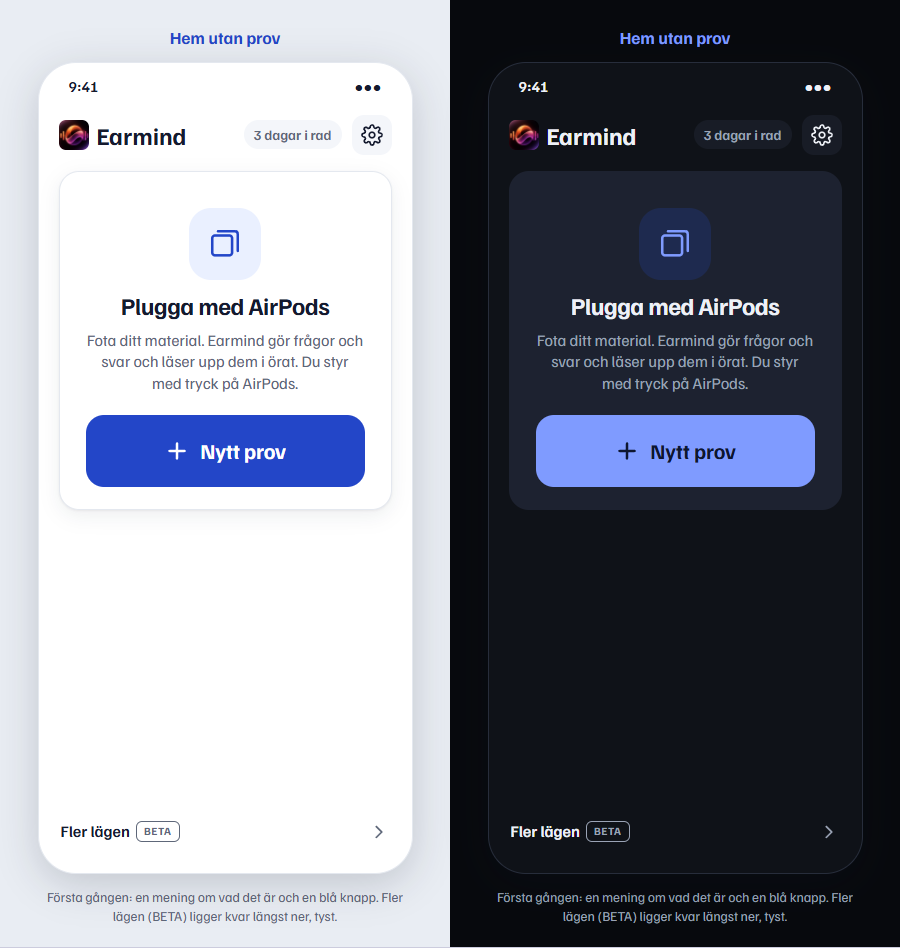
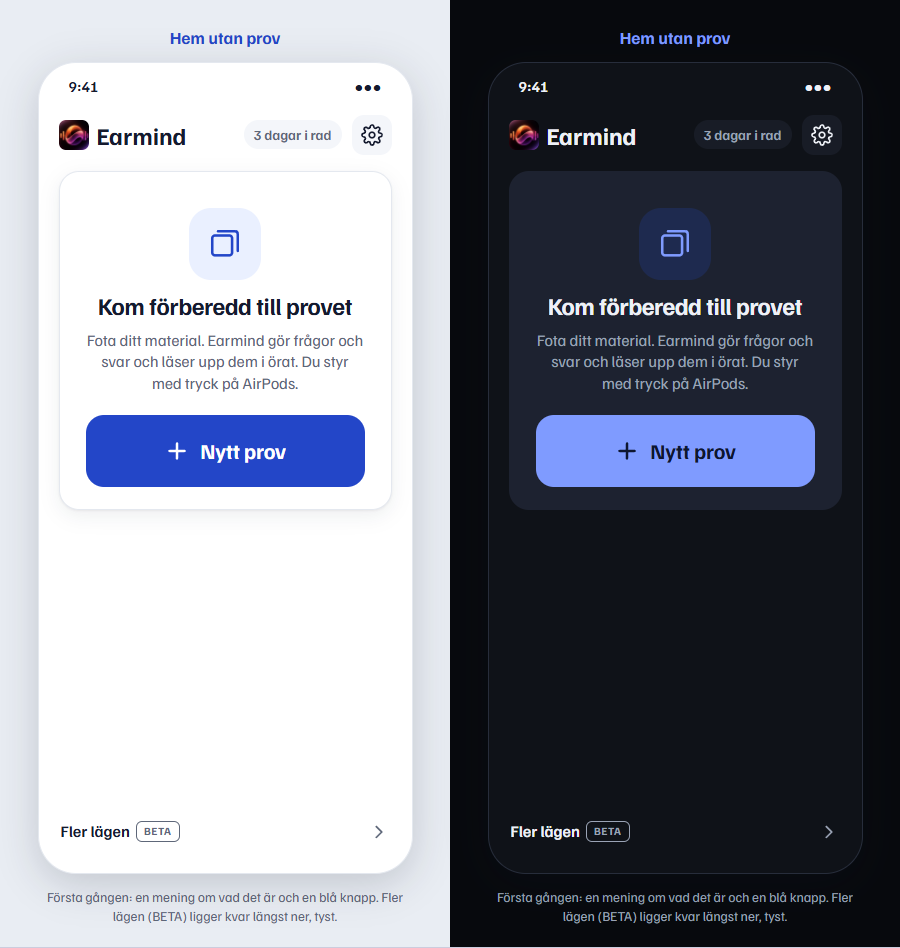
Kelly: repetitionsflödet som ny användare (N1–N9), A85/A86 i koden, texter efter A85/A86 [skip eval]

Changed region(s): [[0.5911, 0.3059, 0.9022, 0.3365], [0.0933, 0.3059, 0.4044, 0.3365]]

diff --git a/docs/design/_src/repetition.html b/docs/design/_src/repetition.html
@@ -334,7 +334,7 @@ S('hem-tom', 'Hem utan prov',
   ${topBar()}
   <div class="card"><div class="empty">
     <div class="bigic">${I('cards')}</div>
-    <h2 style="font-size:24px">Plugga med AirPods</h2>
+    <h2 style="font-size:24px">Kom förberedd till provet</h2>
     <div class="sub" style="font-size:16px;max-width:280px">Fota ditt material. ${APP} gör frågor och svar och läser upp dem i örat. Du styr med tryck på AirPods.</div>
     <div class="btn blue big" style="width:100%;margin-top:10px">${I('plus')}Nytt prov</div>
   </div></div>
@@ -789,7 +789,7 @@ S('pub-hem', 'Hem: vägen till skolans prov',
   ${topBar()}
   <div class="card"><div class="empty">
     <div class="bigic">${I('cards')}</div>
-    <h2 style="font-size:24px">Plugga med AirPods</h2>
+    <h2 style="font-size:24px">Kom förberedd till provet</h2>
     <div class="sub" style="font-size:16px;max-width:280px">Fota ditt material. ${APP} gör frågor och svar och läser upp dem i örat.</div>
     <div class="btn blue big" style="width:100%;margin-top:10px">${I('plus')}Nytt prov</div>
     <div class="tlink" style="margin-top:6px">Hitta prov från din skola</div>

diff --git a/docs/STATUS.md b/docs/STATUS.md
@@ -37,7 +37,7 @@ Last updated: 2026-11-08 by Angela (builder).
 - **Provläge (Angela, D36/D38) and Målbeskrivning + Egna kommandon (Angela, D37/D39):** hands-free tutor session (VAD end-of-turn 0.8 s, barge-in, recogniser gated while we speak, auto-end after 10 min releases the microphone, `mode: tutor` with the whole session's `recent_qa`, retried as `push_to_talk` while the backend rejects `tutor`); course goals compact ≤ 1 500 chars as `goals`; keyword commands matched STT-tolerantly and sent as `commands`, spoken "spara kommando …" stored and confirmed. Green in CI (run 41817986402, 249 app tests); **untested on device**; the backend (answer v8) still rejects `mode: tutor` (400, the app falls back to `push_to_talk`) and ignores the new `goals`/`commands` fields until Kevin's D36/D37 tasks land, so the tutor style and command effects are not yet observable. Also the D35 setting *Svarslängd* (Kort / Anpassad / Utförlig → backend `length`, Settings → Answers), green in run 41819618434 (250 app tests). Reports: `reports/2026-11-04-1214-angela-plugglage.md`, `reports/2026-11-04-1214-angela-goals-commands.md`; checklist §3r–3s.
 - **Easy switch to music (Angela, D33):** Pause/Resume on the listening screen, Lock Screen (Live Activity) and a Control; pause releases the audio session, interruptions never auto-resume (also with `shouldResume`), nothing is spoken while paused. New extension `LumenControls`. Green in CI (run 41806325518); **untested on device**, and the Control's process and Lock Screen resume are untested assumptions. Report: `reports/2026-11-04-1130-angela-d33-music-switch.md`.
 - **Queue D44–D58 (Angela, 2026-11-06):** Historik and Minne on the phone (D49/D56), Scribe as default recogniser with Apple as fallback (D44), Mikrofon per mode + comparison in Diagnostics (D55), mode picker with Intervjuläge and Rizzläge on the StudyMachine (D42/D43), report + Feedback & förslag + opt-in sharing (D57), Siri phrases, Start control and spoken pause (D58), checklist §3t–3z. Also fixed: `goals`/`commands` were sent where the backend does not read them. Green in CI (run 42259754856, 315 app tests). **Nothing has run on a device.** `/feedback` and `/shared-history` are not deployed yet. **Open for Aron:** the discreet indicator was not built (see report, Concerns). Report: `reports/2026-11-06-1830-angela-queue-d49-d58.md`.
-- **Offentlig demosida (Kelly, D62/D66/D86):** Kelly: **A82 granskad på bild (21:29, CI 43497812619): godkänd med två medelfynd**: B1 "fråga 7 av 5" i Fortsätt där du var?, B2 "Här startar du Earmind" och "Starta Earmind" tar fortfarande plats på Hem (D142: en rad Fler lägen); R1–R12 stängda utom R10 (låg); reports/2026-11-13-2129-kelly-granskning-a82.md. **Ke52 klar (21:17):** design och texter för Publicera prov och Prov från din skola (D149/D150) till A83: `docs/design/publicera-prov.md` + 11 skisser `bilder/repetition/pub-*.png`; användarnamn av från början, skolan sparas bara på telefonen; **till Angela: "övningsprov" finns kvar i A16:s röstförhör (3 ställen, förslag i §3)**; `reports/2026-11-13-2117-kelly-ke52-publicera-prov.md`. **Ke51 klar (20:34):** utkast till demosidan för repetitionsläget i `drafts/site-repetition/` (utanför site/, noindex, **inte publicerat**): "Plugga med AirPods utan att röra mobilen", demo med 1/2/3 tryck utan server, tre steg, lyssnande lägen märkta Beta; publiceras efter T18 + Arons ja; `reports/2026-11-13-2034-kelly-ke51-demosida-utkast.md`. **A78–A81 granskade i koden (20:25), inte på bild (CI 43490256034 failure):** 12 fynd till Angela, **R1 Avsluta är röd och R2 frågan i handstil (höga)**, R4 svarsknappar på uppspelningen, R6 Starta prov väntar på allt ljud, R7 två tryck från Hem, R9 pausraden, R12 Word-felet; `reports/2026-11-13-2025-kelly-granskning-a78-a81-kod.md`. Granskning på bild när CI är grön. **Ke50 klar (2026-11-13 20:19):** alla texter i repetitionsläget i `docs/design/repetition-texter.md` (kopieras rakt in, kolumnen "I koden nu" visar skillnaderna mot b669d02); **till Angela:** paus-raden motsäger D143/D147, Word-felet ska bort (K45 doc_text), nya texter för inga AirPods, inget nät, dagens ljudgräns och delning; `reports/2026-11-13-2019-kelly-ke50-repetitionstexter.md`. Granskar A78–A81 när bilderna finns. **Ke49 klar (2026-11-13 19:57):** design för repetitionsläget (D142–D146) till A79–A81: `docs/design/repetition.md` + 18 skisser ljust/mörkt i `docs/design/bilder/repetition/` (Hem med Starta prov, Nytt prov, sammanfattning, frågelista och redigering med kort svar = markerad första mening, kontrollskärmen med ●/●●/●●●, uppspelning, paus, låsskärm, Fortsätt där du var?, Dela, Fler lägen BETA); **till Deangelo: med D145 blir det 2 × N ljudfiler, inte 3 × N (spec R5b)**; sidan ändras först när A80 provats på telefon (T18), texten är klar; `reports/2026-11-13-1957-kelly-ke49-repetitionslaget.md`. Väntar på kö. Kvar att granska när bilder finns: testlägets skärmar (A76) och hemskärmsikonen efter A71 steg 2. **Ke48 klar (22:22):** A76 testläget: T1–T4 rättade (i koden; bladet nämner andras röster); A77 Vad kan Earmind? från capabilities.json godkänd (CI 43098721442); `reports/2026-11-11-2222-kelly-ke48-a76-rattat-a77.md`. **Ke47 klar (21:48):** sajtens Vad kan Earmind? följer Shared/capabilities.json (K44): Översätta och Söka på webben tillagda, "Kommer snart" kvar på det som inte är provat på telefon; Lighthouse 99/100/100/100; `reports/2026-11-11-2148-kelly-ke47-vad-kan-capabilities.md`. **Ke46 klar (21:16):** A76 testläget godkänd med rättelser (i koden): **T2 bekräftelseblad saknas** (andras röster skickas; hög), T4 ljudtexten motsäger sig själv i Om appen, T1 egen färg i brickan, T3 bricka på Start; `reports/2026-11-11-2116-kelly-ke46-granskning-a76.md`. **Ke45 klar (20:44):** design för testläget (D140, A76): orange bricka "Testläge · ljud skickas", bricka på Start, bekräftelseblad som nämner andras röster, ny ljudtext när testläget är på; `docs/design/testlage.md`, `reports/2026-11-11-2044-kelly-ke45-testlage.md`. **Ke44 klar (20:10):** sajtens tre stegbilder från appen i dag (bort med "Ljud sparas inte." och "förhör Lumen"); Lighthouse 99/100/100/100, 1 528 kB; `reports/2026-11-11-2010-kelly-ke44-stegbilder.md`. **Ke43 klar (20:08):** A71 **godkänd**: AppIcon identisk med exakt/AppIcon-1024.png, röstningen med de sex exakta ikonerna i 2 × 3, märket i rubriken; `reports/2026-11-11-2008-kelly-ke43-granskning-a71.md`. **Ke42 klar (19:05):** sajten visar appens ikon (D glasklotet, exakt) i sidhuvudet, favicon och apple-touch-icon; Lighthouse 99/100/100/100, 1 536 kB; `reports/2026-11-11-1905-kelly-ke42-sajtens-ikon.md`. **Ke22 klar (19:04):** bildplan för de 7 koncepten med Ryans rättelser, slutbild Earmind (D121, exakt ikon), Start-inklipp ur CI och 7 omslag (scenbilderna kommer från Gemini) i `docs/marketing/annonser/ke22/`; cookiebanner och pixlar (Ryans B1) saknar punkt; `reports/2026-11-11-1904-kelly-ke22-bildplan.md`. **Ke41 klar (19:00):** A73 **godkänd** (D138-texten överallt, G3 stängd); L1: licensraden säger att ElevenLabs inte sparar ljudet (motsäger D135); `reports/2026-11-11-1900-kelly-ke41-granskning-a73.md`. **Ke40 klar (18:59):** exakta ChatGPT-ikoner (D139) i `docs/design/logo/rostning/exakt/`: A–F + AppIcon-1024 (D), bara beskurna 2,6–3,1 % för iOS-maskens hörn och uppskalade; **till Angela (A71): filerna är pushade**; `reports/2026-11-11-1859-kelly-ke40-exakta-ikoner.md`. **Väntar på kö (17:35).** Öppet: G3 "Ljud sparas inte" (Ke36) och K1 (Ke38) saknar punkt hos Angela. **Ke39 klar (16:31):** A64 största text **godkänd** på Tobys T13-tur (alla sex reglerna i SYSTEM.md avsnitt 10 håller); två låga rester (lägesikonen skalar inte, Lyssnars underrubrik kapas); `reports/2026-11-11-1631-kelly-ke39-granskning-a64.md`. **Ke38 klar (14:57):** Tobys T8c visar att Ke35 fungerar (Start med "Här startar du Earmind", Provläge 4 tryck i stället för 8, ett blad per öppning efter A66); K1 "Dela historik" ska vara grå sekundär knapp; `reports/2026-11-11-1457-kelly-ke38-granskning-t8c.md`. **Ke37 klar (13:21):** regel för största text i SYSTEM.md avsnitt 10 (aldrig ord brutna mitt i, rader med två delar staplas, rubriker kapas inte), täcker Tobys T11 fynd 1–4 och två till; `reports/2026-11-11-1321-kelly-ke37-storsta-text.md`. **Ke36 klar (12:45):** A55–A61 **godkända** (Earmind, Ke35 Start-rutan, V1/M1/G2 stängda); **öppet G3: "Ljud sparas inte" är osant** (Sov sparar klipp i 30 dagar) i intro, Första frågan och Om appen; ordagranna texter till Deangelo/Angela; `reports/2026-11-11-1245-kelly-ke36-granskning-a55-a61.md`. **Ke35 klar (12:01):** designbeslut på Tobys A50-fynd: första passet slutar på Start med en ruta en gång, varje Starta börjar med tom Lyssnar, Provläge frågar högst en sak (2 tryck i stället för 8); `docs/design/forsta-passet.md`, `reports/2026-11-11-1201-kelly-ke35-forsta-passet.md`. **Ke34 klar (11:28):** A52 **godkänd**, A54 **godkänd med V1** ("Rösta" ser aktiv ut fast den är avstängd: `LumenButtonStyle` saknar avstängt utseende), A53 **godkänd med M1** (textknapp i bläck); kvar G2 grå ikoner i lägesbladet och G3 "Ljud sparas inte" (osant med Sov och inspelning); CI 42999887377; `reports/2026-11-11-1128-kelly-ke34-granskning-a52-a54.md`. **Ke33 klar (10:39):** A50 **godkänd** på CI-bilderna 42993726421 (ljust/mörkt); S2 och Välj läge redan rättade i 537ea48; kvar G1 länk till A52 (med A52), G2 grå ikoner i lägesbladet (låg), G3 "Ljud sparas inte" före A53; `reports/2026-11-11-1039-kelly-ke33-granskning-a50.md`. **Ke32 klar (10:30):** sajten heter Earmind (titel, sidhuvud, metadata, FAQ, demorutan), väckningsordet ”Lumen” kvar i citaten; ny delningsbild `og-earmind.png`; Lighthouse 99/100/100/100, 1 504 kB; `reports/2026-11-11-1030-kelly-ke32-earmind-sajten.md`. **Ke30 klar (10:28):** Mina svar ritat för A53 (`docs/design/mina-svar.md`, 8 skisser ljust/mörkt: lista per prov, Lumens förslag → ditt svar, inspelning med Klar, versioner, brytaren, brickan "Ditt svar" i Provläget); till Aron: inspelning högst 10 min och samtycket måste nämna Scribe före A53; `reports/2026-11-11-1028-kelly-ke30-mina-svar.md`. **Ke29 klar (10:28):** underlag `docs/design/start-vadkan.md` (7 skisser ljust/mörkt): A50 granskad i koden (S1 länk "Allt Lumen kan ›", S2 inget Spotify-exempel före Spotify), A52 "Vad kan Lumen?" ritad (13 rader med verklig status) och bladet efter första svaret; sajten har sektionen Vad kan Lumen? med Siri-raden ("Kommer snart" på det som inte är provat), demorutan Standardläge/Förhör mig; Lighthouse 99/100/100/100, 1 504 kB; `reports/2026-11-11-1028-kelly-ke29-start-vadkan.md`. **Ke31 klar (10:18):** röstningens tre loggor (D127) som rena vektorer, mörk och ljus, samma storlek och ljus (bakgrund 0,010–0,016, toppljus 0,67–0,72), läsbara i 60 och 29 pt; till Angela (A54): `docs/design/logo/rostning/vektor/README.md`; `reports/2026-11-11-1018-kelly-ke31-rostning-vektor.md`. Nästa: Ke29. **Ke24 klar (21:23):** Aron valde logga nummer 4 (bock med ljudvågor); ritad som vektor i `docs/design/logo/` (AppIcon 1024 ljus/mörk/tonad, symbol, favicon), läsbar i 29 pt; demosidans sidhuvud och favicons bytta (Lighthouse 100×4, 1 515 kB); **till Angela: AppIcon (appen har ingen) och `LumenLogo` enligt SYSTEM.md avsnitt 5**; `reports/2026-11-10-2123-kelly-ke24-logga.md`. Väntar på kö, överlämning `docs/HANDOVER-KELLY.md`. **Ke28 klar (20:30):** appens CI-bilder (42876421405) godkända mot SYSTEM.md, 6 fynd; viktigast **Elias hörlur är vit och Apple-lik** (byts före App Store); `reports/2026-11-10-2030-kelly-ke28-granskning.md`. **Ke27 klar (20:28):** sömnläget ritat för A49 (`docs/design/sovlage.md`: Sov i Byt läge, eget samtycke första gången, svart natt med Godmorgon, morgonrapport med en mening, tre siffror, tidslinje och klipp); **"Ljud sparas inte" i intro/samtycke blir osant med A49**, förslag i filen. **Ke26 klar (20:24):** D121 i heron ("AI:n i dina AirPods. För vardagen, skolan och jobbet." + "Starta Lumen en gång, sen finns den i örat. Säg ”Lumen” så svarar den."; "hela dagen" utelämnat tills batteriet är mätt), Lighthouse 100×4, 1 507 kB; `reports/2026-11-10-2024-kelly-ke26-d121-sidan.md`. **Ke25 klar (20:12):** utkast till App Store-sidan i `docs/marketing/appstore/` (6 bilder i 6,9" och 6,1" ur CI 42876421405, texter, åldersgräns 13+ där Rizz är osäker, integritetsetiketter efter A41); **integritetspolicy saknas** och krävs; slutbild till Ryans annonser i `docs/marketing/annonser/slutbild/`; `reports/2026-11-10-2012-kelly-ke25-appstore.md`. **Ke23 klar (20:20):** sju namn kollade i App Store, EUIPO/TMview och DNS; **Earwise rött** (appen "EarWise: Ear Training", hörselkliniken earwise.se, ljudappen earwise.app), Earpiece AI rött, "Pod"/"Whisper" Apple-/OpenAI-risk; **rekommenderar Earmind** (Proviska reserv) och ChatGPT-symbol 4; PRV ej kontrollerat; `docs/design/namn.md`, `reports/2026-11-10-1932-kelly-ke23-namn-logga.md`. **Ke24 väntar på Arons nummer.** **A30 granskad: godkänd** (Ke20:s fyra fynd rättade i simulatorbilder; 6 mindre nya fynd till Angela, bl.a. "Startar …" på Har du prov snart?, demodata som blandar ämnen i övningsprovet). **Ke18 klar:** sidans tre steg visar appen i det nya systemet (Första frågan, Har du prov snart?, Provläget med "Lyssnar"); Lighthouse 99/100/100/100, bara Chromium; `reports/2026-11-10-1249-kelly-granskning-a30-ke18.md`. Kellys session stoppar enligt PLAN 2e (två komprimeringar); Ke22–Ke25 väntar på nästa Kelly-session, se `docs/HANDOVER-KELLY.md`. **Ke21 klar:** "Rizz 18+" och "bara för dig som är 18 år" borta från sidan och skissen Byt läge (D112); sidan beskriver inga spärrar utöver integritet och demons gräns (B2, B3); `reports/2026-11-10-1240-kelly-ke21-d112-sidan.md`. **Ke20 klar:** A26 **godkänd** (R1–R6 stängda i simulatorbilder). Nytt fynd: Övningsprovet (A16) visar ingen lyssnarbricka (skyddsräcke), plus 3 mindre; `reports/2026-11-10-1133-kelly-granskning-a26.md`. Ke18 del 1: sidans steg 1 har appens nya Första frågan; steg 2–3 väntar på bilderna `addExam` och Provläget lyssnar. **Ke19 klar:** demorutan har D97:s två val (Förhör mig = tre Provlägesfrågor med inspelade svar utan anrop, Få A-svar till provet = livedemon, förvald); Lighthouse 99/100/100/100, 1 491 kB, bara Chromium; `reports/2026-11-10-1046-kelly-ke19-d97-pa-sidan.md`. **Ke9 klar** (en väg på demosidan: demo → "Så kommer du igång" i 3 steg → en knapp; mobil 8 533 → 4 226 px, Lighthouse 100; designunderlag för appen i `docs/design/enkel-start.md` till A18; `reports/2026-11-10-0735-kelly-ke9-enkel-start.md`; live, Pages-deploy grön). Ke10 klar (underlag för Start utan prov, Lyssnar och Mikrofon nekad; `reports/2026-11-10-0735-kelly-ke10-vanliga-vagen.md`). Ke11 klar (FAQ synlig på sidan, samma ord i demons rad; `reports/2026-11-10-0740-kelly-ke11-ord-faq.md`). Ke12b klar (designspec app mot sida i `docs/design/designspec.md`; `reports/2026-11-10-0738-kelly-ke12b-designspec.md`). **Ke12 klar:** nytt designsystem `docs/design/SYSTEM.md` (ersätter D86:s skollook i appen) med 3 loggförslag och 5 skärmar före/efter till A18; `reports/2026-11-10-0746-kelly-ke12-proffsig-pluggapp.md`. Ke17 klar: A18 **godkänd med rättelser** (Start godkänd; R1–R4 till Angela före nästa T3), `reports/2026-11-10-0805-kelly-granskning-a18.md`. Ke16 klar: annonserna i nya systemet (`docs/marketing/annonser/system/`); `reports/2026-11-10-0802-kelly-ke16-annonser-system.md`. Ke15 klar: ny delningsbild `og-lumen.png`, site 1 487 kB; `reports/2026-11-10-0800-kelly-ke15-delningsbild.md`. Ke14 klar: SYSTEM.md del 2 (fem skärmar till A18/A22); `reports/2026-11-10-0759-kelly-ke14-system-del2.md`. Ke13 klar: D97 två knappar på provkortet i SYSTEM.md och skisserna; `reports/2026-11-10-0754-kelly-ke13-d97-tva-knappar.md`. Ke13b klar: sidan i SYSTEM.md (ingen handstil eller rutpapper, Kalam bort, 1 699 kB); `reports/2026-11-10-0751-kelly-ke13-sida-nya-systemet.md`. Ke3 klar (steg med T3-bilder, animation, FAQ, sitemap). Ke2 klar (fokus till svaret efter en fråga, träffytor 44 px, taket för tal provat live med fejkad mikrofon; `reports/2026-11-08-1815-kelly-ke2-oscar-fynd.md`). Ke1 klar (riktiga Provläge-exempel med inspelat ljud, väntelisterad efter svaret, svepbara exempelfrågor på mobil, inga layoutskift, delningsbild och favicon; 61 kB vid start; `reports/2026-11-08-1640-kelly-ke1-demo.md`). Sidan är **publicerad** på https://aronstenlund-code.github.io/aronstenlund-airpods-ai/ (Pages på 2026-11-08, run 42486945392: check och deploy gröna). Live verifierat i Chromium: en riktig fråga gav svar (signup, answer, tts 200), typsnitten laddas och CORS tillåter adressen. Appens design (D86) med platshållare för foto. Ändringar i `site/` publiceras av sig själva vid push till main. **Ej testad på iPhone, Safari eller AirPods.** Kvar: riktigt foto. Rapporter: `reports/2026-11-08-1250-kelly-demo-publish.md`, `reports/2026-11-08-1450-kelly-demo-d86.md`.
+- **Offentlig demosida (Kelly, D62/D66/D86):** Kelly: **Ny användare i repetitionsflödet (22:43, bilder 43508671912):** N1 hög: svaret kommer bara vid tryck, och en ny användare tror att appen hoppar över (förslag: hjälprad + en mening första varvet); N2 kontrollskärmen förklarar inte att frågan spelas, N3 grå Skapa frågor utan skäl, N4 "Starta-knappen"/Provläge i Välj läge; B3/B4 stängda på bild, B1/B2 väntar på bild efter 270b0a0; A85/A86 godkända i koden, A83 inte byggd; reports/2026-11-13-2243-kelly-nyanvandare-repetition.md. **A82 granskad på bild (21:29, CI 43497812619): godkänd med två medelfynd**: B1 "fråga 7 av 5" i Fortsätt där du var?, B2 "Här startar du Earmind" och "Starta Earmind" tar fortfarande plats på Hem (D142: en rad Fler lägen); R1–R12 stängda utom R10 (låg); reports/2026-11-13-2129-kelly-granskning-a82.md. **Ke52 klar (21:17):** design och texter för Publicera prov och Prov från din skola (D149/D150) till A83: `docs/design/publicera-prov.md` + 11 skisser `bilder/repetition/pub-*.png`; användarnamn av från början, skolan sparas bara på telefonen; **till Angela: "övningsprov" finns kvar i A16:s röstförhör (3 ställen, förslag i §3)**; `reports/2026-11-13-2117-kelly-ke52-publicera-prov.md`. **Ke51 klar (20:34):** utkast till demosidan för repetitionsläget i `drafts/site-repetition/` (utanför site/, noindex, **inte publicerat**): "Plugga med AirPods utan att röra mobilen", demo med 1/2/3 tryck utan server, tre steg, lyssnande lägen märkta Beta; publiceras efter T18 + Arons ja; `reports/2026-11-13-2034-kelly-ke51-demosida-utkast.md`. **A78–A81 granskade i koden (20:25), inte på bild (CI 43490256034 failure):** 12 fynd till Angela, **R1 Avsluta är röd och R2 frågan i handstil (höga)**, R4 svarsknappar på uppspelningen, R6 Starta prov väntar på allt ljud, R7 två tryck från Hem, R9 pausraden, R12 Word-felet; `reports/2026-11-13-2025-kelly-granskning-a78-a81-kod.md`. Granskning på bild när CI är grön. **Ke50 klar (2026-11-13 20:19):** alla texter i repetitionsläget i `docs/design/repetition-texter.md` (kopieras rakt in, kolumnen "I koden nu" visar skillnaderna mot b669d02); **till Angela:** paus-raden motsäger D143/D147, Word-felet ska bort (K45 doc_text), nya texter för inga AirPods, inget nät, dagens ljudgräns och delning; `reports/2026-11-13-2019-kelly-ke50-repetitionstexter.md`. Granskar A78–A81 när bilderna finns. **Ke49 klar (2026-11-13 19:57):** design för repetitionsläget (D142–D146) till A79–A81: `docs/design/repetition.md` + 18 skisser ljust/mörkt i `docs/design/bilder/repetition/` (Hem med Starta prov, Nytt prov, sammanfattning, frågelista och redigering med kort svar = markerad första mening, kontrollskärmen med ●/●●/●●●, uppspelning, paus, låsskärm, Fortsätt där du var?, Dela, Fler lägen BETA); **till Deangelo: med D145 blir det 2 × N ljudfiler, inte 3 × N (spec R5b)**; sidan ändras först när A80 provats på telefon (T18), texten är klar; `reports/2026-11-13-1957-kelly-ke49-repetitionslaget.md`. Väntar på kö. Kvar att granska när bilder finns: testlägets skärmar (A76) och hemskärmsikonen efter A71 steg 2. **Ke48 klar (22:22):** A76 testläget: T1–T4 rättade (i koden; bladet nämner andras röster); A77 Vad kan Earmind? från capabilities.json godkänd (CI 43098721442); `reports/2026-11-11-2222-kelly-ke48-a76-rattat-a77.md`. **Ke47 klar (21:48):** sajtens Vad kan Earmind? följer Shared/capabilities.json (K44): Översätta och Söka på webben tillagda, "Kommer snart" kvar på det som inte är provat på telefon; Lighthouse 99/100/100/100; `reports/2026-11-11-2148-kelly-ke47-vad-kan-capabilities.md`. **Ke46 klar (21:16):** A76 testläget godkänd med rättelser (i koden): **T2 bekräftelseblad saknas** (andras röster skickas; hög), T4 ljudtexten motsäger sig själv i Om appen, T1 egen färg i brickan, T3 bricka på Start; `reports/2026-11-11-2116-kelly-ke46-granskning-a76.md`. **Ke45 klar (20:44):** design för testläget (D140, A76): orange bricka "Testläge · ljud skickas", bricka på Start, bekräftelseblad som nämner andras röster, ny ljudtext när testläget är på; `docs/design/testlage.md`, `reports/2026-11-11-2044-kelly-ke45-testlage.md`. **Ke44 klar (20:10):** sajtens tre stegbilder från appen i dag (bort med "Ljud sparas inte." och "förhör Lumen"); Lighthouse 99/100/100/100, 1 528 kB; `reports/2026-11-11-2010-kelly-ke44-stegbilder.md`. **Ke43 klar (20:08):** A71 **godkänd**: AppIcon identisk med exakt/AppIcon-1024.png, röstningen med de sex exakta ikonerna i 2 × 3, märket i rubriken; `reports/2026-11-11-2008-kelly-ke43-granskning-a71.md`. **Ke42 klar (19:05):** sajten visar appens ikon (D glasklotet, exakt) i sidhuvudet, favicon och apple-touch-icon; Lighthouse 99/100/100/100, 1 536 kB; `reports/2026-11-11-1905-kelly-ke42-sajtens-ikon.md`. **Ke22 klar (19:04):** bildplan för de 7 koncepten med Ryans rättelser, slutbild Earmind (D121, exakt ikon), Start-inklipp ur CI och 7 omslag (scenbilderna kommer från Gemini) i `docs/marketing/annonser/ke22/`; cookiebanner och pixlar (Ryans B1) saknar punkt; `reports/2026-11-11-1904-kelly-ke22-bildplan.md`. **Ke41 klar (19:00):** A73 **godkänd** (D138-texten överallt, G3 stängd); L1: licensraden säger att ElevenLabs inte sparar ljudet (motsäger D135); `reports/2026-11-11-1900-kelly-ke41-granskning-a73.md`. **Ke40 klar (18:59):** exakta ChatGPT-ikoner (D139) i `docs/design/logo/rostning/exakt/`: A–F + AppIcon-1024 (D), bara beskurna 2,6–3,1 % för iOS-maskens hörn och uppskalade; **till Angela (A71): filerna är pushade**; `reports/2026-11-11-1859-kelly-ke40-exakta-ikoner.md`. **Väntar på kö (17:35).** Öppet: G3 "Ljud sparas inte" (Ke36) och K1 (Ke38) saknar punkt hos Angela. **Ke39 klar (16:31):** A64 största text **godkänd** på Tobys T13-tur (alla sex reglerna i SYSTEM.md avsnitt 10 håller); två låga rester (lägesikonen skalar inte, Lyssnars underrubrik kapas); `reports/2026-11-11-1631-kelly-ke39-granskning-a64.md`. **Ke38 klar (14:57):** Tobys T8c visar att Ke35 fungerar (Start med "Här startar du Earmind", Provläge 4 tryck i stället för 8, ett blad per öppning efter A66); K1 "Dela historik" ska vara grå sekundär knapp; `reports/2026-11-11-1457-kelly-ke38-granskning-t8c.md`. **Ke37 klar (13:21):** regel för största text i SYSTEM.md avsnitt 10 (aldrig ord brutna mitt i, rader med två delar staplas, rubriker kapas inte), täcker Tobys T11 fynd 1–4 och två till; `reports/2026-11-11-1321-kelly-ke37-storsta-text.md`. **Ke36 klar (12:45):** A55–A61 **godkända** (Earmind, Ke35 Start-rutan, V1/M1/G2 stängda); **öppet G3: "Ljud sparas inte" är osant** (Sov sparar klipp i 30 dagar) i intro, Första frågan och Om appen; ordagranna texter till Deangelo/Angela; `reports/2026-11-11-1245-kelly-ke36-granskning-a55-a61.md`. **Ke35 klar (12:01):** designbeslut på Tobys A50-fynd: första passet slutar på Start med en ruta en gång, varje Starta börjar med tom Lyssnar, Provläge frågar högst en sak (2 tryck i stället för 8); `docs/design/forsta-passet.md`, `reports/2026-11-11-1201-kelly-ke35-forsta-passet.md`. **Ke34 klar (11:28):** A52 **godkänd**, A54 **godkänd med V1** ("Rösta" ser aktiv ut fast den är avstängd: `LumenButtonStyle` saknar avstängt utseende), A53 **godkänd med M1** (textknapp i bläck); kvar G2 grå ikoner i lägesbladet och G3 "Ljud sparas inte" (osant med Sov och inspelning); CI 42999887377; `reports/2026-11-11-1128-kelly-ke34-granskning-a52-a54.md`. **Ke33 klar (10:39):** A50 **godkänd** på CI-bilderna 42993726421 (ljust/mörkt); S2 och Välj läge redan rättade i 537ea48; kvar G1 länk till A52 (med A52), G2 grå ikoner i lägesbladet (låg), G3 "Ljud sparas inte" före A53; `reports/2026-11-11-1039-kelly-ke33-granskning-a50.md`. **Ke32 klar (10:30):** sajten heter Earmind (titel, sidhuvud, metadata, FAQ, demorutan), väckningsordet ”Lumen” kvar i citaten; ny delningsbild `og-earmind.png`; Lighthouse 99/100/100/100, 1 504 kB; `reports/2026-11-11-1030-kelly-ke32-earmind-sajten.md`. **Ke30 klar (10:28):** Mina svar ritat för A53 (`docs/design/mina-svar.md`, 8 skisser ljust/mörkt: lista per prov, Lumens förslag → ditt svar, inspelning med Klar, versioner, brytaren, brickan "Ditt svar" i Provläget); till Aron: inspelning högst 10 min och samtycket måste nämna Scribe före A53; `reports/2026-11-11-1028-kelly-ke30-mina-svar.md`. **Ke29 klar (10:28):** underlag `docs/design/start-vadkan.md` (7 skisser ljust/mörkt): A50 granskad i koden (S1 länk "Allt Lumen kan ›", S2 inget Spotify-exempel före Spotify), A52 "Vad kan Lumen?" ritad (13 rader med verklig status) och bladet efter första svaret; sajten har sektionen Vad kan Lumen? med Siri-raden ("Kommer snart" på det som inte är provat), demorutan Standardläge/Förhör mig; Lighthouse 99/100/100/100, 1 504 kB; `reports/2026-11-11-1028-kelly-ke29-start-vadkan.md`. **Ke31 klar (10:18):** röstningens tre loggor (D127) som rena vektorer, mörk och ljus, samma storlek och ljus (bakgrund 0,010–0,016, toppljus 0,67–0,72), läsbara i 60 och 29 pt; till Angela (A54): `docs/design/logo/rostning/vektor/README.md`; `reports/2026-11-11-1018-kelly-ke31-rostning-vektor.md`. Nästa: Ke29. **Ke24 klar (21:23):** Aron valde logga nummer 4 (bock med ljudvågor); ritad som vektor i `docs/design/logo/` (AppIcon 1024 ljus/mörk/tonad, symbol, favicon), läsbar i 29 pt; demosidans sidhuvud och favicons bytta (Lighthouse 100×4, 1 515 kB); **till Angela: AppIcon (appen har ingen) och `LumenLogo` enligt SYSTEM.md avsnitt 5**; `reports/2026-11-10-2123-kelly-ke24-logga.md`. Väntar på kö, överlämning `docs/HANDOVER-KELLY.md`. **Ke28 klar (20:30):** appens CI-bilder (42876421405) godkända mot SYSTEM.md, 6 fynd; viktigast **Elias hörlur är vit och Apple-lik** (byts före App Store); `reports/2026-11-10-2030-kelly-ke28-granskning.md`. **Ke27 klar (20:28):** sömnläget ritat för A49 (`docs/design/sovlage.md`: Sov i Byt läge, eget samtycke första gången, svart natt med Godmorgon, morgonrapport med en mening, tre siffror, tidslinje och klipp); **"Ljud sparas inte" i intro/samtycke blir osant med A49**, förslag i filen. **Ke26 klar (20:24):** D121 i heron ("AI:n i dina AirPods. För vardagen, skolan och jobbet." + "Starta Lumen en gång, sen finns den i örat. Säg ”Lumen” så svarar den."; "hela dagen" utelämnat tills batteriet är mätt), Lighthouse 100×4, 1 507 kB; `reports/2026-11-10-2024-kelly-ke26-d121-sidan.md`. **Ke25 klar (20:12):** utkast till App Store-sidan i `docs/marketing/appstore/` (6 bilder i 6,9" och 6,1" ur CI 42876421405, texter, åldersgräns 13+ där Rizz är osäker, integritetsetiketter efter A41); **integritetspolicy saknas** och krävs; slutbild till Ryans annonser i `docs/marketing/annonser/slutbild/`; `reports/2026-11-10-2012-kelly-ke25-appstore.md`. **Ke23 klar (20:20):** sju namn kollade i App Store, EUIPO/TMview och DNS; **Earwise rött** (appen "EarWise: Ear Training", hörselkliniken earwise.se, ljudappen earwise.app), Earpiece AI rött, "Pod"/"Whisper" Apple-/OpenAI-risk; **rekommenderar Earmind** (Proviska reserv) och ChatGPT-symbol 4; PRV ej kontrollerat; `docs/design/namn.md`, `reports/2026-11-10-1932-kelly-ke23-namn-logga.md`. **Ke24 väntar på Arons nummer.** **A30 granskad: godkänd** (Ke20:s fyra fynd rättade i simulatorbilder; 6 mindre nya fynd till Angela, bl.a. "Startar …" på Har du prov snart?, demodata som blandar ämnen i övningsprovet). **Ke18 klar:** sidans tre steg visar appen i det nya systemet (Första frågan, Har du prov snart?, Provläget med "Lyssnar"); Lighthouse 99/100/100/100, bara Chromium; `reports/2026-11-10-1249-kelly-granskning-a30-ke18.md`. Kellys session stoppar enligt PLAN 2e (två komprimeringar); Ke22–Ke25 väntar på nästa Kelly-session, se `docs/HANDOVER-KELLY.md`. **Ke21 klar:** "Rizz 18+" och "bara för dig som är 18 år" borta från sidan och skissen Byt läge (D112); sidan beskriver inga spärrar utöver integritet och demons gräns (B2, B3); `reports/2026-11-10-1240-kelly-ke21-d112-sidan.md`. **Ke20 klar:** A26 **godkänd** (R1–R6 stängda i simulatorbilder). Nytt fynd: Övningsprovet (A16) visar ingen lyssnarbricka (skyddsräcke), plus 3 mindre; `reports/2026-11-10-1133-kelly-granskning-a26.md`. Ke18 del 1: sidans steg 1 har appens nya Första frågan; steg 2–3 väntar på bilderna `addExam` och Provläget lyssnar. **Ke19 klar:** demorutan har D97:s två val (Förhör mig = tre Provlägesfrågor med inspelade svar utan anrop, Få A-svar till provet = livedemon, förvald); Lighthouse 99/100/100/100, 1 491 kB, bara Chromium; `reports/2026-11-10-1046-kelly-ke19-d97-pa-sidan.md`. **Ke9 klar** (en väg på demosidan: demo → "Så kommer du igång" i 3 steg → en knapp; mobil 8 533 → 4 226 px, Lighthouse 100; designunderlag för appen i `docs/design/enkel-start.md` till A18; `reports/2026-11-10-0735-kelly-ke9-enkel-start.md`; live, Pages-deploy grön). Ke10 klar (underlag för Start utan prov, Lyssnar och Mikrofon nekad; `reports/2026-11-10-0735-kelly-ke10-vanliga-vagen.md`). Ke11 klar (FAQ synlig på sidan, samma ord i demons rad; `reports/2026-11-10-0740-kelly-ke11-ord-faq.md`). Ke12b klar (designspec app mot sida i `docs/design/designspec.md`; `reports/2026-11-10-0738-kelly-ke12b-designspec.md`). **Ke12 klar:** nytt designsystem `docs/design/SYSTEM.md` (ersätter D86:s skollook i appen) med 3 loggförslag och 5 skärmar före/efter till A18; `reports/2026-11-10-0746-kelly-ke12-proffsig-pluggapp.md`. Ke17 klar: A18 **godkänd med rättelser** (Start godkänd; R1–R4 till Angela före nästa T3), `reports/2026-11-10-0805-kelly-granskning-a18.md`. Ke16 klar: annonserna i nya systemet (`docs/marketing/annonser/system/`); `reports/2026-11-10-0802-kelly-ke16-annonser-system.md`. Ke15 klar: ny delningsbild `og-lumen.png`, site 1 487 kB; `reports/2026-11-10-0800-kelly-ke15-delningsbild.md`. Ke14 klar: SYSTEM.md del 2 (fem skärmar till A18/A22); `reports/2026-11-10-0759-kelly-ke14-system-del2.md`. Ke13 klar: D97 två knappar på provkortet i SYSTEM.md och skisserna; `reports/2026-11-10-0754-kelly-ke13-d97-tva-knappar.md`. Ke13b klar: sidan i SYSTEM.md (ingen handstil eller rutpapper, Kalam bort, 1 699 kB); `reports/2026-11-10-0751-kelly-ke13-sida-nya-systemet.md`. Ke3 klar (steg med T3-bilder, animation, FAQ, sitemap). Ke2 klar (fokus till svaret efter en fråga, träffytor 44 px, taket för tal provat live med fejkad mikrofon; `reports/2026-11-08-1815-kelly-ke2-oscar-fynd.md`). Ke1 klar (riktiga Provläge-exempel med inspelat ljud, väntelisterad efter svaret, svepbara exempelfrågor på mobil, inga layoutskift, delningsbild och favicon; 61 kB vid start; `reports/2026-11-08-1640-kelly-ke1-demo.md`). Sidan är **publicerad** på https://aronstenlund-code.github.io/aronstenlund-airpods-ai/ (Pages på 2026-11-08, run 42486945392: check och deploy gröna). Live verifierat i Chromium: en riktig fråga gav svar (signup, answer, tts 200), typsnitten laddas och CORS tillåter adressen. Appens design (D86) med platshållare för foto. Ändringar i `site/` publiceras av sig själva vid push till main. **Ej testad på iPhone, Safari eller AirPods.** Kvar: riktigt foto. Rapporter: `reports/2026-11-08-1250-kelly-demo-publish.md`, `reports/2026-11-08-1450-kelly-demo-d86.md`.
 - **D63 + indicator (Angela, 2026-11-06):** Rizzläge flirty only behind an 18+ gate, new Socialt läge, slimmer indicator that keeps its text and Stop (D68, Aron confirmed "Behåll texten"). Green in CI (run 42268384817, 320 app tests). **Untested on device.** Both live modes fail against the server until Kevin's D63 is deployed. Report: `reports/2026-11-06-1945-angela-d63-indicator.md`.
 - **Device install without a Mac (Angela, D70, 2026-11-07):** CI archives the app unsigned and uploads `Lumen-unsigned.ipa` (artifact `Lumen-unsigned`, 14 days) on green builds of main and on manual runs; no entitlements in the repo, so nothing is dropped. Swedish steps: `docs/INSTALL-SIDELOADLY.md`. Aron installed it on an iPhone 14 Pro (iOS 26.5).
 - **Crash when the microphone starts, fixed (Angela, 2026-11-07):** the capture tap closure inherited `@MainActor` and Swift 6 trapped on Core Audio's real-time queue (9 crashes on device). Six callbacks (two audio taps, the synthesizer buffer callback, the player completion handler, the SFSpeech result and authorization handlers) are now nonisolated; a test calls each from a background queue. **D71:** Provläge never auto-ends by default. Commit `4a50887`. **Untested on device** until Aron reinstalls. Report: `reports/2026-11-07-1640-angela-crash-fix-callbacks.md`.

diff --git a/reports/2026-11-13-2243-kelly-nyanvandare-repetition.md b/reports/2026-11-13-2243-kelly-nyanvandare-repetition.md
@@ -1,0 +1,49 @@
+# Kelly: repetitionsflödet som ny användare, plus A85, A86 och A83
+
+Datum: 2026-11-13 22:43. Roll: Kelly Kapoor (design). Uppdrag från Aron: granska A85, A86 och A83 mot designen och gå
+igenom hela repetitionsflödet som en ny användare.
+
+## Vilka bilder
+- **43505582385** (4623bc7) är ett iOS-bygge **utan skärmbilder** (artefakterna är build-logs, xcodeproj och ipa).
+  Skärmbilderna för samma kod kommer från **"Simulator screenshots" 43508671912** (1363518, efter 4623bc7, grön).
+  Genomgången nedan bygger på dem: 13 scener i ljust och mörkt, kontaktblad i
+  `reports/2026-11-13-nyanvandare-bilder/` (`l0.jpg`, `l1.jpg`, i flödets ordning).
+- Bilderna kommer **före** Angelas 270b0a0 (B1–B5 efter min A82-granskning) och dbfa91f (A85/A86). Därför syns B1
+  och B2 fortfarande här. **B3 (ringen visar 6) och B4 (kontrollen börjar på steg 1 med "Väntar …") är stängda på bild.**
+
+## A85, A86 och A83
+| Punkt | Läge | Bedömning |
+|---|---|---|
+| **A86** "Kom förberedd till provet" | dbfa91f, granskad i koden (ingen bild än) | **Godkänd i koden:** rubriken på Hem utan prov är bytt. Ingressen ("Fota ditt material …") och knappen Nytt prov är oförändrade. Mina `repetition-texter.md`, `repetition.md` och skisserna `hem-tom`/`pub-hem` är uppdaterade. Bekräftas på bild. |
+| **A85** felet "Ingen internetanslutning" | dbfa91f, granskad i koden | **Godkänd i koden:** "Ingen internetanslutning" bara när `NWPathMonitor` saknar nät, annars "Det gick inte att skapa frågorna. Försök igen." med knappen **Försök igen** (bara när material finns). Texten står nu i `repetition-texter.md` §13. Felet syns inte i någon scen. **Till Angela:** lägg till scenen `repMakeError`. |
+| **A83** Publicera prov | Inte byggd (`- [ ]` i kön, ingen commit) | Inget att granska. Underlaget är `docs/design/publicera-prov.md` (Ke52). |
+
+## Ny användare: det som är otydligt
+Jag läste skärmarna i ordning, som någon som just laddat ner appen och aldrig sett den förut.
+
+| # | Skärm | Vad en ny användare inte förstår | Förslag (text att kopiera) | Nivå |
+|---|---|---|---|---|
+| N1 | Uppspelningen, Tänk (`repPlayThink`) | **Svaret kommer bara om man trycker.** Utan tryck går appen vidare till nästa fråga efter betänketiden. En ny användare väntar på svaret, hör en ny fråga och tror att appen hoppade över eller är trasig. Raden ● Långt svar … är liten och grå. | **Första varvet i första provet:** under ringen står "Tryck på AirPods för svaret", och efter betänketiden säger rösten en gång "Tryck en gång för svaret." Från varv 2, eller efter första trycket, visas bara den tysta raden. Ingen ny ljudkostnad om meningen är en fast fil i appen. | **Hög** |
+| N2 | Kontrollskärmen (`repControls`) | En fråga börjar plötsligt spelas i örat (D147 punkt 5), och ingenting förklarar varför. | Raden under rubriken (Ke50 §7): "Frågan spelas en gång så att trycken kommer fram." | Medel |
+| N3 | Nytt prov (`repMaterial`) | **Skapa frågor** är grå, men det står inte varför. | Under den grå knappen: "Lägg till minst en sida, bild eller text." Raden försvinner när något är tillagt. | Medel |
+| N4 | Välj läge (`moreModes`) | "Valet gäller **Starta-knappen**." Det finns nu två Starta-knappar (Starta prov och Starta Earmind). "Provläge" ligger bredvid Starta prov fast det är något annat. | Fotnot: "Valet gäller Starta Earmind. Starta prov använder aldrig mikrofonen." Provläge får raden "Förhör med rösten" i stället för "För dina prov" (spec §1: det gamla röstförhöret heter Förhör med rösten). | Medel |
+| N5 | Hem utan prov (`repHomeEmpty`) | Sju saker under varandra: kortet, länken, FLER LÄGEN, tipset "Här startar du Earmind", Starta Earmind, Standardläge · Byt och Earmind kan allt. Det är svårt att se vad man ska göra. | B2 (rättad i 270b0a0 enligt Angela): bara kortet, länken och raden Fler lägen [BETA]. **Bekräftas på nästa bild.** | (B2) |
+| N6 | Fortsätt där du var? (`repResume`) | "fråga 7 av 5" | B1 (rättad i 270b0a0). Bekräftas på nästa bild. | (B1) |
+| N7 | Hem (`repHome`, `repHomeEmpty`) | Flamman "3" uppe till höger förklaras inte. Den nya användaren har inte pluggat i 3 dagar. | Visa den först efter första passet. VoiceOver: "3 dagar i rad". | Låg |
+| N8 | Frågelistan (`repList`) | Ingen väg tillbaka (inget "‹ Hem" uppe till vänster) i scenen, och ingen Dela-rad i bild. | Kontrollera att listan ligger i navigationsstacken med Hem. B5: scen med Dela. | Låg |
+| N9 | Hem, Earmind kan allt | Appen heter Earmind, men man säger "Lumen". | Känt och väntar på Aron (väckningsordet, HANDOVER-KELLY). Ingen ändring nu. | Låg |
+
+**Det som är tydligt** (behåll): materialets fyra rutor och fotnoten om att material inte sparas, "Ljud klart" med
+bock, raden om att Starta prov inte använder mikrofonen, redigeringen (det korta svaret som första meningen, med
+förklaring), kontrollskärmens "Tryck en gång nu – på skaftet, som när du pausar musik", pausskärmen ("Fortsätter
+från samma ord") och "Gör ljud …".
+
+## Till Angela
+1. **N1 först.** Det är den enda punkten där en ny användare kan tro att appen är trasig.
+2. N2, N3 och N4 är textändringar.
+3. Starta en "Simulator screenshots" på main efter dbfa91f. Då bekräftar jag B1, B2 och A86 på bild. Lägg gärna till
+   `repMakeError` (A85), `repControlsDone`, `repControlsMissing` och `repShare` med Dela-raden.
+
+## Test
+Simulatorbilder (CI 43508671912) och kodläsning (dbfa91f). Inget provat på telefon. Ljud, tryck och låsskärm hör till
+Tobys T18.

diff --git a/prompts/queue/BOARD.md b/prompts/queue/BOARD.md
@@ -18,5 +18,5 @@ Kolumnerna:
 | Angela (app) | Opus 5.5 (claude-opus-5-5) | (sessionens inställning) | A85 (falskt "Ingen internetanslutning"), A86 | arbetar | **A85+A86 pushade 22:29 (dbfa91f), iOS build kör.** Trolig orsak till A85: sidorna blev 4 800 px (skärmens 3× i UIGraphicsImageRenderer), flera MB per foto, och anslutningen bröts. Nu 1 600 px och högst 1,2 MB per sida, ett nytt försök vid bruten anslutning, "Ingen internetanslutning" bara utan nät (NWPathMonitor), orsaken loggas. Kellys B1–B5 i 270b0a0. Förra gröna bygget med ipa: 43505582385 | 2026-11-13 22:30 | ny session |
 | Oscar (QA) | Opus 5.5 (claude-opus-5-5) | (sessionens inställning) | O55a, O55, O56 klara | nästa: O55b (5 nya hållout-prov) efter Kevins rättningar | **21:36 O55:** R1 ok (20 s), R5/R5b/R5c 33/33, R10 Claude 0,063 USD/prov, ElevenLabs ~0,94 USD/prov listpris; **till Kevin:** årskurs 'åk 8' 5/10, R3 ≤5 ord 75 % och förståelse 66 %, 1 tomt svar (prio 1), 3 små faktafel, frågor som kräver materialet. **O56 R12 4/4**, sök 0,3 s, RLS håller. Domaren 20/20. API ca 2,3 USD, ElevenLabs 1 154 tecken | 2026-11-13 21:36 | `reports/qa/2026-11-13-2136-oscar-o55-o56-repetition.md` |
 | Toby (apptest) | Opus 5.5 (claude-opus-5-5) | (sessionens inställning) | Toby 1: T15b och T17 (BETA-lägena) · Toby 2: T18 (repetitionsläget, A78–A81) | Toby 1: omkörning 2 i CI: T15b 43503692380, T17 efter A75 43503698183, baslinje 43503643154 (omkörning 1 föll i bygget: E2E/Repetition, rättat av Toby 2 i 7acfa8c) · Toby 2: T18 i simulatorn grön 5/5, väntar på Arons telefonsvar  | Toby 1: första körningen: T15b väntan 0/10 över 4 s och mikrofonen 10/11 inom 1 s, men 10/12 besvarade (uppvärmning); T17 föll på testet (1 m dämpades av A10, sorlet hade en fråga), rättat i e26228c/705de5e · Toby 2: T18 simulatorn (43507025903)  | Toby 1: 2026-11-13 21:40 · Toby 2: 2026-11-13 22:18 | Toby 1: 1 punkt · Toby 2: ny session |
-| Kelly (demosida) | Opus 5.5 (claude-opus-5-5) | (sessionens inställning) | – | väntar på kö (A82 granskad, B1/B2 till Angela) | Ke49–Ke52 klara: repetitionslägets design och texter, demosidans utkast (inte publicerat), Publicera prov (). API 0 USD | 2026-11-13 21:17 | ny session |
+| Kelly (demosida) | Opus 5.5 (claude-opus-5-5) | (sessionens inställning) | – | väntar på bilder efter dbfa91f (B1/B2, A86) och A83 | Ke49–Ke52 klara: repetitionslägets design och texter, demosidans utkast (inte publicerat), Publicera prov (). API 0 USD | 2026-11-13 21:17 | ny session |
 | Ryan (annonser) | – | – | R1 konton och spårning | ny | – | – | – |

diff --git a/docs/design/repetition.md b/docs/design/repetition.md
@@ -32,7 +32,7 @@ Nästa gång: Hem → **Starta prov** direkt, det vill säga ett enda tryck.
 | Skärm | Bild | Det viktigaste |
 |---|---|---|
 | Hem med prov | `hem.png` | Provkortet överst med **Starta prov** som den enda blå knappen (stor, 72 pt). Under den "Frågor och svar" och "Dela" som textknappar. "Nytt prov" är en sekundär knapp. Andra prov ligger i en lista med ▶. Ett prov vars ljud inte är klart har ett blekt ▶ och raden "Ljud: 31 av 60 klara". **Fler lägen** med BETA-märket ligger längst ner. Ingen mikrofon och inget "Starta Earmind" på hemskärmen. |
-| Hem utan prov | `hem-tom.png` | Ett kort med rubriken "Plugga med AirPods", en mening och den blå knappen **Nytt prov**. Inget annat. |
+| Hem utan prov | `hem-tom.png` | Ett kort med rubriken "Kom förberedd till provet" (A86, Aron 22:19), en mening och den blå knappen **Nytt prov**. Inget annat. |
 | Nytt prov: material | `material.png` | Namnfältet överst. Lämnas det tomt, får provet sitt namn från sammanfattningen ("Biologiprovet"). Fyra rutor: **Fota sidor** (kameran stannar öppen för flera foton i följd), **Välj bilder** (PhotosPicker, flera), **Skriv text**, **Dokument** (PDF, Word, text). Det som är tillagt visas som miniatyrer med ×. **Antal frågor** visar värdet med − + (standard 20). **Långa svar** har tre steg: Kortare, Normal (cirka 90 ord) och Längre (D146). Fotnoten säger att foton och dokument inte sparas. Den blå knappen **Skapa frågor** är grå tills något är tillagt. |
 | Läser materialet | `analys.png` | Fyra steg med bockar i stället för en snurra utan slut: Läser sidorna, Tar reda på ämne och årskurs, Gör frågor, Skriver svar. "Du kan lämna appen. Earmind säger till när det är klart." betyder en notis, men bara om användaren redan har tillåtit notiser. Fråga inte om det här. |
 | Stämmer det här? | `sammanfattning.png` | Ett kort med Ämne, Årskurs och "Provet handlar om" som chips. Fältet "Något fel? Skriv det" tar en rad fri text. Den blå knappen **Ser rätt ut**. En rättelse gör om sammanfattningen och frågorna. |

diff --git a/docs/design/repetition-texter.md b/docs/design/repetition-texter.md
@@ -30,7 +30,7 @@ skrivs alltid i samma ordning: 1 tryck = långt svar, 2 tryck = kort svar, 3 try
 **Hem utan prov**
 | Ställe | Text | I koden nu |
 |---|---|---|
-| Rubrik | Plugga med AirPods | |
+| Rubrik | Kom förberedd till provet *(Aron 22:19, A86)* | |
 | Rad | Fota ditt material. Earmind gör frågor och svar och läser upp dem i örat. Du styr med tryck på AirPods, utan mikrofon. | Fota sidorna eller lägg till text. Earmind gör provfrågor med svar och läser dem i dina AirPods. Du styr med tryck, utan mikrofon. |
 | Huvudknapp | Nytt prov | |
 
@@ -231,7 +231,7 @@ skrivs alltid i samma ordning: 1 tryck = långt svar, 2 tryck = kort svar, 3 try
 | Inget nät när frågorna ska göras | Ingen internetanslutning. Frågorna görs när du är uppkopplad igen. | Försök igen |
 | Inget nät under uppspelning | *(ingen text: ljud som redan är nedladdat spelas som vanligt)* | |
 | Inget nät, nästa ljud saknas | Ingen internetanslutning. Ljudet för fråga {8} kommer när du är uppkopplad. Frågorna med ljud spelas under tiden. | |
-| Frågorna kunde inte göras | Earmind kunde inte göra frågor just nu. Försök igen om en stund. | Försök igen |
+| Frågorna kunde inte göras (nätet finns, anslutningen bröts eller servern svarade fel) | Det gick inte att skapa frågorna. Försök igen. *(A85)* | Försök igen |
 | Materialet räckte inte | Earmind hittade för lite att göra frågor av. Lägg till fler sidor eller mer text. | Lägg till material |
 | Ljud kunde inte göras (rösttjänsten svarar fel) | Ljudet för {3} frågor kunde inte göras. Earmind försöker igen av sig själv. | Försök nu |
 | Dagens gräns för nytt ljud (K46) | Dagens gräns för nytt ljud är nådd. Resten görs i morgon. Frågorna som har ljud kan du plugga på redan nu. | |
